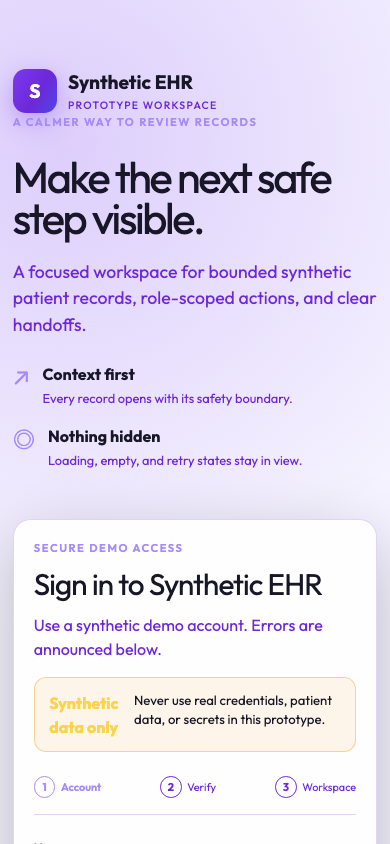
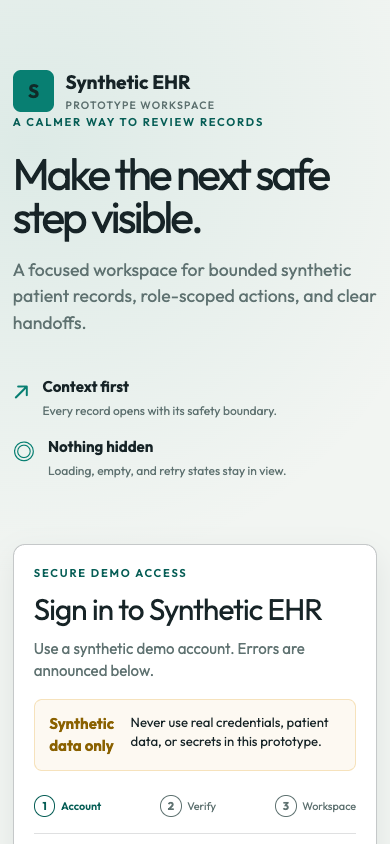
Refresh frontend light mode design

diff --git a/src/styles.css b/src/styles.css
@@ -268,3 +268,142 @@ th, td { border: 1px solid var(--app-border); padding: .5rem; text-align: left; 
 .one-time-secret p { margin: 0; color: var(--app-muted); }
 @media (max-width: 56rem) { .admin-snapshot { grid-template-columns: repeat(2, minmax(0, 1fr)); } .admin-grid, .developer-grid, .admin-link-grid { grid-template-columns: 1fr; } }
 @media (max-width: 42rem) { .admin-snapshot { grid-template-columns: 1fr 1fr; } .admin-form, .developer-form { grid-template-columns: 1fr; } .admin-form label:nth-child(3), .admin-form button, .developer-form label:last-of-type, .developer-form button { grid-column: auto; } .admin-error { align-items: stretch; flex-direction: column; } .admin-error .ui-button { width: 100%; } .developer-warning { align-items: flex-start; flex-direction: column; } .table-wrap table { min-width: 34rem; } }
+
+/* Design system refresh: clinical instrument, not decorative dashboard.
+   Existing class names stay stable so workflow and acceptance contracts remain unchanged. */
+:root {
+  color-scheme: light;
+  --app-bg: #f2f5f2;
+  --app-surface: #ffffff;
+  --app-surface-raised: #e8efec;
+  --app-text: #172427;
+  --app-muted: #5f7271;
+  --app-border: rgb(23 36 39 / 14%);
+  --app-border-strong: rgb(23 36 39 / 25%);
+  --signal: #087f72;
+  --signal-strong: #075e56;
+  --signal-wash: rgb(8 127 114 / 9%);
+  --signal-ink: #ffffff;
+  --danger: #ad3f3b;
+  --warning: #8a6100;
+  --info: #265f95;
+  --radius-control: 8px;
+  --radius-surface: 12px;
+  --shadow-soft: 0 12px 30px rgb(25 49 48 / 9%);
+}
+
+:root[data-theme=light], .theme-light { color-scheme: light; }
+:root[data-theme=dark], .theme-dark {
+  color-scheme: dark;
+  --app-bg: #11191b;
+  --app-surface: #192326;
+  --app-surface-raised: #202d30;
+  --app-text: #edf3f1;
+  --app-muted: #a6b7b5;
+  --app-border: rgb(205 224 219 / 16%);
+  --app-border-strong: rgb(205 224 219 / 28%);
+  --signal: #59c3b1;
+  --signal-strong: #8be0cf;
+  --signal-wash: rgb(89 195 177 / 12%);
+  --signal-ink: #102a28;
+  --danger: #ff8b82;
+  --warning: #edc16b;
+  --info: #82b8e8;
+  --shadow-soft: 0 16px 40px rgb(0 0 0 / 16%);
+}
+
+html, body { background: var(--app-bg); color: var(--app-text); }
+body { font-size: .9375rem; }
+a { color: var(--signal-strong); }
+button, input, select, textarea { border-radius: var(--radius-control); }
+button:focus-visible, input:focus-visible, select:focus-visible, textarea:focus-visible, summary:focus-visible, a:focus-visible { outline: 3px solid var(--signal); outline-offset: 3px; }
+
+.app-shell { grid-template-columns: 56px 224px minmax(0, 1fr); background: var(--app-bg); }
+.icon-rail { gap: .4rem; padding: 1.25rem .4rem; background: var(--app-surface-raised); border-right: 1px solid var(--app-border); }
+.icon-rail a, .icon-rail-role { width: 36px; height: 36px; border-radius: var(--radius-control); color: var(--app-muted); }
+.icon-rail a:hover, .icon-rail a.is-active { background: var(--signal-wash); color: var(--signal-strong); }
+.icon-rail-role { border-color: var(--app-border-strong); color: var(--app-text); }
+.sidebar { background: var(--app-surface); border-right: 1px solid var(--app-border); padding: 1.5rem .9rem; }
+.sidebar-brand { margin-bottom: 2.5rem; font-size: 1.05rem; letter-spacing: -.02em; }
+.sidebar-brand span { color: var(--signal-strong); }
+.sidebar nav { gap: .2rem; }
+.sidebar button { border-radius: var(--radius-control); color: var(--app-muted); }
+.sidebar button:hover, .sidebar button.is-active { background: var(--signal-wash); color: var(--signal-strong); }
+.top-bar { min-height: 4.25rem; padding: .75rem 1.75rem; background: var(--app-surface); border-bottom-color: var(--app-border); }
+.top-bar > div:first-of-type span, .top-search { color: var(--app-muted); }
+.top-search { max-width: 28rem; }
+.top-search input { background: var(--app-bg); border-color: var(--app-border); }
+.profile-button { width: 2.4rem; height: 2.4rem; border-radius: 50%; background: var(--signal); color: #102a28; }
+.ui-icon-button { width: 2.4rem; min-height: 2.4rem; border-color: var(--app-border); border-radius: var(--radius-control); }
+.page-frame { max-width: 96rem; padding: 1.4rem clamp(1rem, 3vw, 3rem) 4rem; }
+.ui-breadcrumbs { margin-bottom: 1.25rem; }
+.ui-breadcrumbs ol { color: var(--app-muted); }
+.context-ribbon { min-height: 8.5rem; padding: 1.5rem 1.75rem; border: 1px solid var(--app-border); border-radius: var(--radius-surface); background: var(--app-surface-raised); box-shadow: none; color: var(--app-text); }
+.context-ribbon h1 { margin: .4rem 0 .45rem; font-size: clamp(1.55rem, 2.2vw, 2.15rem); letter-spacing: -.045em; }
+.context-ribbon p { color: var(--app-muted); }
+.context-ribbon .ui-caption { color: var(--signal-strong); }
+.context-ribbon .ui-button--secondary { border-color: var(--app-border-strong); color: var(--app-text); }
+.ui-button { border-radius: var(--radius-control); box-shadow: none; font-weight: 600; transition: background-color 150ms ease, border-color 150ms ease, transform 150ms ease; }
+.ui-button--primary { background: var(--signal); color: var(--signal-ink); }
+.ui-button--primary:hover:not(:disabled) { background: var(--signal-strong); box-shadow: none; }
+.ui-button--secondary { background: transparent; border-color: var(--app-border-strong); color: var(--app-text); }
+.ui-button--secondary:hover:not(:disabled), .ui-button--ghost:hover:not(:disabled) { background: var(--signal-wash); color: var(--signal-strong); }
+.ui-button--danger { background: var(--danger); color: #261514; }
+.ui-card, .record-summary, .patient-record > section, .patient-record > form, .record-actions > section { border-color: var(--app-border); border-radius: var(--radius-surface); background: var(--app-surface); box-shadow: var(--shadow-soft); }
+.ui-card { padding: 1.25rem; }
+.ui-card > h2 { letter-spacing: -.025em; }
+.ui-input, input, select, textarea { border-color: var(--app-border-strong); border-radius: var(--radius-control); background: var(--app-bg); color: var(--app-text); }
+.ui-input:focus, input:focus, select:focus, textarea:focus { border-color: var(--signal); box-shadow: 0 0 0 3px var(--signal-wash); outline: none; }
+.ui-caption { color: var(--app-muted); letter-spacing: .11em; }
+.ui-badge { min-height: 1.65rem; border-radius: 999px; }
+.ui-badge--success { background: rgb(89 195 177 / 15%); color: var(--signal-strong); }
+.ui-badge--warning { background: rgb(237 193 107 / 15%); color: var(--warning); }
+.ui-badge--danger { background: rgb(255 139 130 / 15%); color: var(--danger); }
+.ui-badge--info { background: rgb(130 184 232 / 15%); color: var(--info); }
+.ui-state { border-radius: var(--radius-control); }
+.ui-state--loading { color: var(--info); background: rgb(130 184 232 / 9%); }
+.ui-state--empty, .ui-state--no-results { background: var(--signal-wash); color: var(--app-muted); }
+.ui-state--error { color: var(--danger); border-color: rgb(255 139 130 / 45%); background: rgb(255 139 130 / 7%); }
+
+.auth-page { max-width: 90rem; gap: clamp(2rem, 8vw, 8rem); padding: clamp(1.5rem, 6vw, 5rem); background: radial-gradient(circle at 8% 10%, var(--signal-wash), transparent 32%); }
+.brand-mark { width: 2.6rem; height: 2.6rem; border-radius: var(--radius-control); background: var(--signal); color: #102a28; box-shadow: none; }
+.eyebrow { color: var(--signal-strong); letter-spacing: .16em; }
+.auth-story h1 { max-width: 11ch; margin-top: 1.4rem; font-size: clamp(2.75rem, 6vw, 5.3rem); letter-spacing: -.065em; }
+.auth-lede, .auth-promises small, .auth-panel-heading p:last-child { color: var(--app-muted); }
+.auth-promises { margin-top: 2.5rem; }
+.auth-promises li > span:first-child { color: var(--signal); }
+.auth-panel { border-radius: var(--radius-surface); border-color: var(--app-border-strong); background: var(--app-surface); box-shadow: var(--shadow-soft); }
+.synthetic-notice, .workspace-notice { border-color: rgb(237 193 107 / 40%); border-radius: var(--radius-control); background: rgb(237 193 107 / 9%); color: var(--warning); }
+.synthetic-notice span { color: var(--app-text); }
+.auth-steps { border-bottom-color: var(--app-border); }
+.auth-steps .is-current { color: var(--signal-strong); }
+.auth-submit { background: var(--signal); color: var(--signal-ink); box-shadow: none; }
+.auth-secondary-action { border-color: var(--app-border-strong); }
+
+.workspace-kicker { color: var(--app-muted); }
+.record-heading { border-top: 3px solid var(--signal); border-color: var(--app-border); background: var(--app-surface); }
+.record-status { border-color: rgb(89 195 177 / 40%); color: var(--signal-strong); }
+.record-tabs a::before { color: var(--signal); }
+.record-tabs a:hover, .record-tabs a:focus-visible { background: var(--signal-wash); color: var(--signal-strong); }
+.record-summary strong { color: var(--app-text); }
+.safety-alerts { border-left-color: var(--warning); background: rgb(237 193 107 / 8%); }
+.critical-action { border-color: rgb(255 139 130 / 60%); background: rgb(255 139 130 / 10%); color: var(--danger); }
+.breakglass-banner { border-color: var(--danger); border-radius: var(--radius-control); background: rgb(255 139 130 / 9%); }
+.breakglass-banner strong, .severity-critical, .severity-high { color: var(--danger); }
+.severity-moderate { color: var(--warning); }
+.severity-low, .severity-suppressed { color: var(--info); }
+.cds-panel li article { border-color: var(--app-border); border-radius: var(--radius-control); background: var(--app-surface-raised); }
+.admin-snapshot span { border-color: var(--app-border); border-radius: var(--radius-control); background: var(--app-surface-raised); }
+.admin-snapshot strong { color: var(--signal-strong); }
+.table-wrap { border-color: var(--app-border); border-radius: var(--radius-control); }
+.table-wrap th { background: var(--app-surface-raised); color: var(--app-muted); }
+th, td { border-color: var(--app-border); }
+.developer-warning { border-left-color: var(--warning); border-radius: var(--radius-control); background: rgb(237 193 107 / 8%); }
+
+@media (max-width: 42rem) {
+  .top-bar { padding: .75rem; }
+  .page-frame { padding-inline: .75rem; }
+  .context-ribbon { padding: 1.25rem; }
+  .context-ribbon .ui-button { width: auto; }
+  .auth-page { padding: 1.25rem .8rem 2rem; }
+}

diff --git a/src/ui.tsx b/src/ui.tsx
@@ -68,4 +68,4 @@ function TopBar({ role, username, onMenu, onTheme, onSignOut }: { role: Role; us
 export function ClinicalContextRibbon({ role, page, context, safety, action }: { role: Role; page: string; context: string; safety: string; action: ReactNode }) { return <section className="context-ribbon" aria-labelledby="context-ribbon-title"><div><span className="ui-caption">{role} workspace · {safety}</span><h1 id="context-ribbon-title">{page}</h1><p>{context}</p></div><div>{action}</div></section>; }
 
 // type-10042026-Maurice: AppShell owns route/theme/drawer state in memory only.
-export function AppShell({ role, username, route, onNavigate, onSignOut, children, page = "Records", context = "Synthetic workspace for bounded record review.", safety = "Synthetic data only" }: { role: Role; username: string; route: string; onNavigate: (path: string) => void; onSignOut?: () => void; children: ReactNode; page?: string; context?: string; safety?: string }) { const [drawerOpen, setDrawerOpen] = useState(false); const [theme, setTheme] = useState<"dark" | "light">("dark"); useEffect(() => { document.documentElement.dataset.theme = theme; return () => { delete document.documentElement.dataset.theme; }; }, [theme]); const changeTheme = () => { setTheme((current) => current === "dark" ? "light" : "dark"); uiLog.info("theme_toggle"); }; const navigate = (path: string) => { setDrawerOpen(false); onNavigate(path); }; return <div className={`app-shell theme-${theme}`}><IconRail role={role} route={route} /><Sidebar role={role} route={route} onNavigate={navigate} /><div className="app-content"><TopBar role={role} username={username} onMenu={() => setDrawerOpen(true)} onTheme={changeTheme} onSignOut={onSignOut} /><div className="page-frame"><a className="skip-link" href="#main-content">Skip to main content</a><Breadcrumbs items={[{ label: "Workspace", href: route === "/" ? undefined : "/" }, { label: page }]} /><ClinicalContextRibbon role={role} page={page} context={context} safety={safety} action={<Button variant="secondary" onClick={() => navigate("/")}>View records</Button>} /><main id="main-content">{children}</main></div></div>{drawerOpen && <div className="drawer-backdrop" onClick={() => setDrawerOpen(false)}><aside className="mobile-drawer" aria-label="Mobile navigation" onClick={(event) => event.stopPropagation()}><div className="drawer-heading"><strong>Navigation</strong><IconButton label="Close navigation" onClick={() => setDrawerOpen(false)}><X aria-hidden="true" /></IconButton></div><Sidebar role={role} route={route} onNavigate={navigate} /></aside></div>}</div>; }
+export function AppShell({ role, username, route, onNavigate, onSignOut, children, page = "Records", context = "Synthetic workspace for bounded record review.", safety = "Synthetic data only" }: { role: Role; username: string; route: string; onNavigate: (path: string) => void; onSignOut?: () => void; children: ReactNode; page?: string; context?: string; safety?: string }) { const [drawerOpen, setDrawerOpen] = useState(false); const [theme, setTheme] = useState<"dark" | "light">("light"); useEffect(() => { document.documentElement.dataset.theme = theme; return () => { delete document.documentElement.dataset.theme; }; }, [theme]); const changeTheme = () => { setTheme((current) => current === "dark" ? "light" : "dark"); uiLog.info("theme_toggle"); }; const navigate = (path: string) => { setDrawerOpen(false); onNavigate(path); }; return <div className={`app-shell theme-${theme}`}><IconRail role={role} route={route} /><Sidebar role={role} route={route} onNavigate={navigate} /><div className="app-content"><TopBar role={role} username={username} onMenu={() => setDrawerOpen(true)} onTheme={changeTheme} onSignOut={onSignOut} /><div className="page-frame"><a className="skip-link" href="#main-content">Skip to main content</a><Breadcrumbs items={[{ label: "Workspace", href: route === "/" ? undefined : "/" }, { label: page }]} /><ClinicalContextRibbon role={role} page={page} context={context} safety={safety} action={<Button variant="secondary" onClick={() => navigate("/")}>View records</Button>} /><main id="main-content">{children}</main></div></div>{drawerOpen && <div className="drawer-backdrop" onClick={() => setDrawerOpen(false)}><aside className="mobile-drawer" aria-label="Mobile navigation" onClick={(event) => event.stopPropagation()}><div className="drawer-heading"><strong>Navigation</strong><IconButton label="Close navigation" onClick={() => setDrawerOpen(false)}><X aria-hidden="true" /></IconButton></div><Sidebar role={role} route={route} onNavigate={navigate} /></aside></div>}</div>; }

diff --git a/src/ticket03.test.tsx b/src/ticket03.test.tsx
@@ -14,6 +14,6 @@ describe("Ticket 03 — authentication and patient workspace composition", () =>
   it("TC-UI-0023 / REQ-A11Y-0005: provides stable workspace landmarks", () => { expect(shell).toContain('aria-label="Workspace navigation"'); expect(shell).toContain('aria-label="Breadcrumb"'); });
   it("TC-UI-0024 / REQ-A11Y-0006: renders the intentional shell composition", () => { expect(shell).toContain("context-ribbon"); expect(shell).toContain("record-heading"); });
   it("TC-UI-0025 / REQ-A11Y-0007: keeps theme changes memory-only", () => { expect(shell).not.toContain("localStorage"); expect(shell).not.toContain("sessionStorage"); });
-  it("TC-UI-0026 / REQ-A11Y-0008: includes semantic dark/light surfaces", () => { expect(shell).toContain("theme-dark"); expect(shell).toContain("context-ribbon"); });
+  it("TC-UI-0026 / REQ-A11Y-0008: includes semantic light/dark surfaces", () => { expect(shell).toContain("theme-light"); expect(shell).toContain("context-ribbon"); });
   it("TC-UI-0027 / REQ-A11Y-0009: auth has skip-ready main content and live errors", () => { const html = renderToStaticMarkup(<Login onSuccess={() => undefined} />); expect(html).toContain('id="main-content"'); expect(html).toContain('aria-live="polite"'); expect(html).toContain("Synthetic data only"); });
 });

diff --git a/README.md b/README.md
@@ -50,20 +50,21 @@ clinical validation. See `docs/accessibility-conformance-note.md` and
 
 ## Screenshots
 
-These images show the current local demo using synthetic demonstration data only, captured
-in the optional light presentation mode. The application remains dark-first by default;
-these are illustrative UI captures, not clinical validation or evidence of production
-readiness.
+These images show the current local demo using synthetic demonstration data only. The
+sign-in captures below were refreshed after the clinical-instrument design-system pass;
+the application is light-first by default, with dark mode available from the workspace
+theme control. All images are illustrative UI captures,
+not clinical validation or evidence of production readiness.
 
 | Screen | Viewport | Workflow shown |
 | --- | --- | --- |
-| [![Synthetic MFA sign-in screen](docs/screenshots/login-mfa.png)](docs/screenshots/login-mfa.png) | 1440x900 | Optional light-mode presentation of the synthetic account sign-in with mandatory TOTP and non-clinical safety notice. |
-| [![Synthetic MFA sign-in screen on tablet](docs/screenshots/login-mfa-tablet.png)](docs/screenshots/login-mfa-tablet.png) | 1024x768 | Optional light-mode responsive sign-in capture at tablet width. |
-| [![Synthetic MFA sign-in screen on mobile](docs/screenshots/login-mfa-mobile.png)](docs/screenshots/login-mfa-mobile.png) | 390x844 | Optional light-mode responsive sign-in capture at mobile width. |
-| [![Patient synthetic record workspace](docs/screenshots/patient-workspace.png)](docs/screenshots/patient-workspace.png) | 1440x900 | Optional light-mode patient synthetic record workspace with bounded summary, questionnaire, and amendment surfaces. |
-| [![Clinician medication order workspace](docs/screenshots/clinician-medication-safety.png)](docs/screenshots/clinician-medication-safety.png) | 1440x900 | Optional light-mode clinician record workspace at the medication-order workflow, with the synthetic-data boundary visible. |
-| [![Administrator audit workspace](docs/screenshots/administrator-audit-jobs.png)](docs/screenshots/administrator-audit-jobs.png) | 1440x900 | Optional light-mode administrator quality and append-only audit view; sensitive-looking values are masked in this documentation capture. |
-| [![Developer SMART and FHIR workspace](docs/screenshots/developer-smart-fhir.png)](docs/screenshots/developer-smart-fhir.png) | 1440x900 | Optional light-mode developer SMART/FHIR workspace with synthetic-data and browser-storage boundaries. |
+| [![Synthetic MFA sign-in screen](docs/screenshots/login-mfa.png)](docs/screenshots/login-mfa.png) | 1440x900 | Refreshed light-first synthetic account sign-in with mandatory TOTP and non-clinical safety notice. |
+| [![Synthetic MFA sign-in screen on tablet](docs/screenshots/login-mfa-tablet.png)](docs/screenshots/login-mfa-tablet.png) | 1024x768 | Refreshed responsive sign-in capture at tablet width. |
+| [![Synthetic MFA sign-in screen on mobile](docs/screenshots/login-mfa-mobile.png)](docs/screenshots/login-mfa-mobile.png) | 390x844 | Refreshed responsive sign-in capture at mobile width. |
+| [![Patient synthetic record workspace](docs/screenshots/patient-workspace.png)](docs/screenshots/patient-workspace.png) | 1440x900 | Synthetic patient record workspace with bounded summary, questionnaire, and amendment surfaces. |
+| [![Clinician medication order workspace](docs/screenshots/clinician-medication-safety.png)](docs/screenshots/clinician-medication-safety.png) | 1440x900 | Synthetic clinician record workspace at the medication-order workflow, with the synthetic-data boundary visible. |
+| [![Administrator audit workspace](docs/screenshots/administrator-audit-jobs.png)](docs/screenshots/administrator-audit-jobs.png) | 1440x900 | Synthetic administrator quality and append-only audit view; sensitive-looking values are masked in this documentation capture. |
+| [![Developer SMART and FHIR workspace](docs/screenshots/developer-smart-fhir.png)](docs/screenshots/developer-smart-fhir.png) | 1440x900 | Synthetic developer SMART/FHIR workspace with synthetic-data and browser-storage boundaries. |
 
 The authenticated role captures were taken from the current source Vite server and isolated synthetic backend at 1440x900.
 
